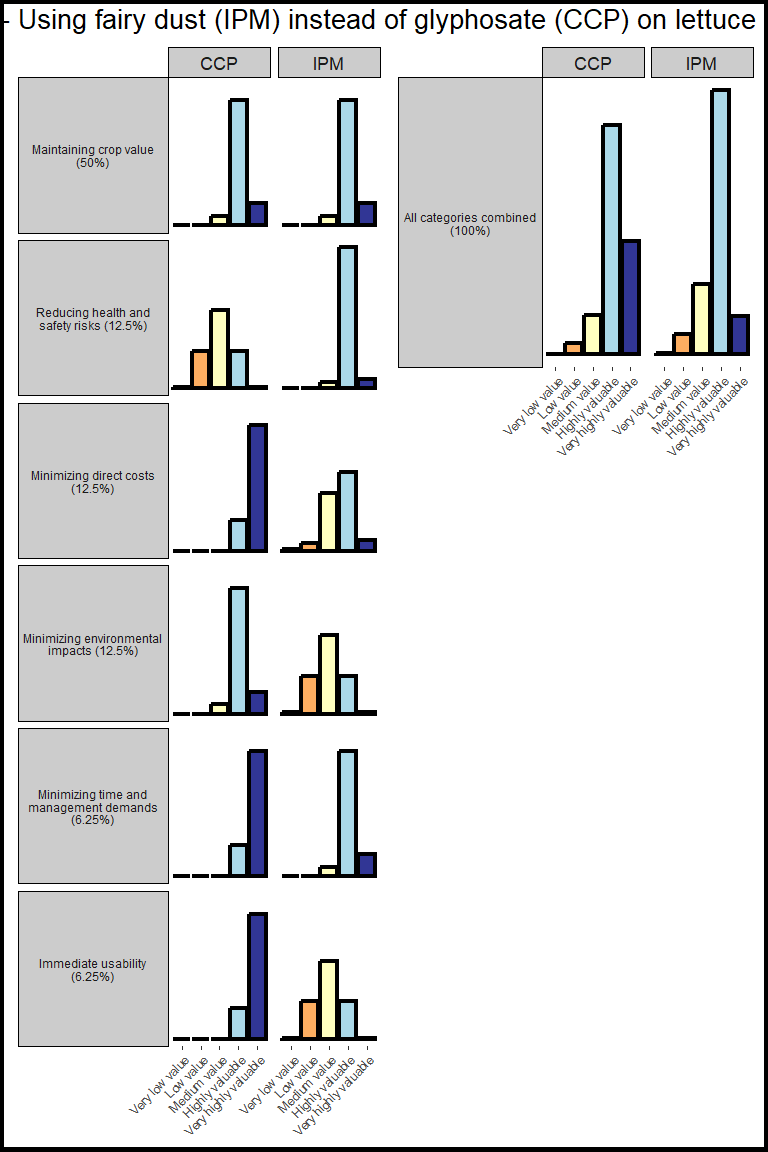
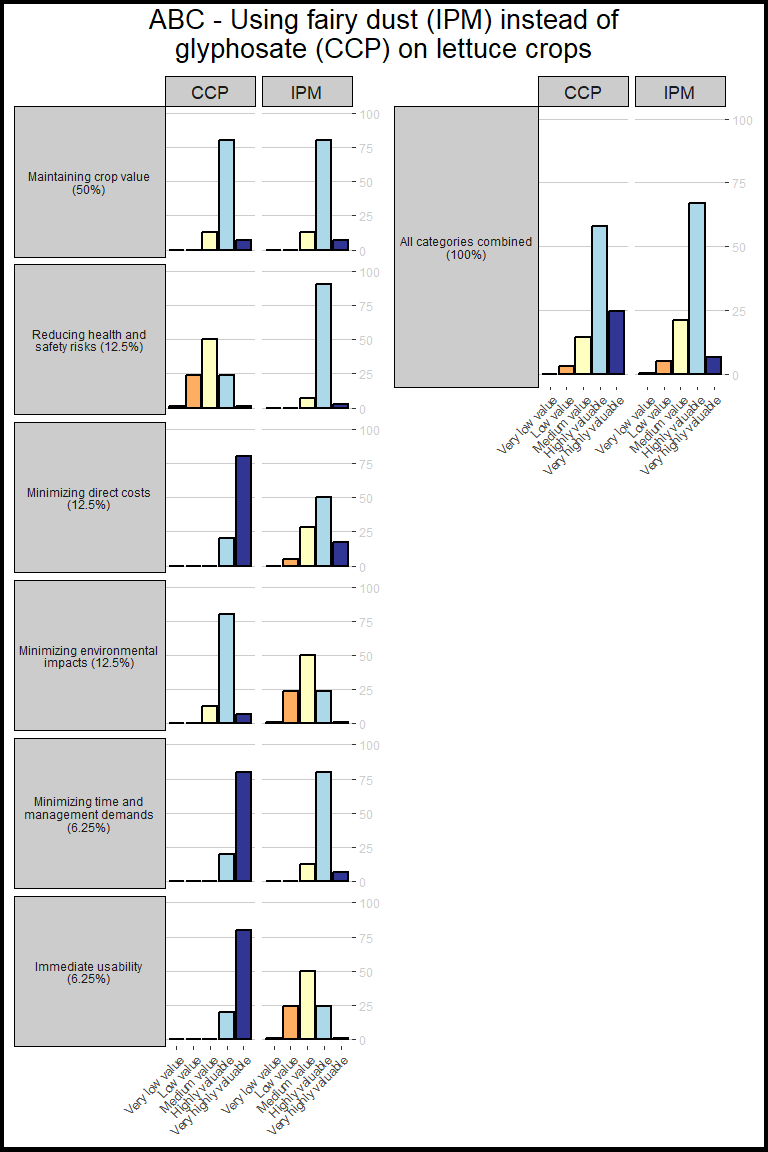
updated readme

Changed region(s): [[0.0, 0.0, 1.0, 1.0]]

diff --git a/README.md b/README.md
@@ -46,9 +46,9 @@ thus the clunky name, IPMOPAT.
 
 - take those ratings/confidence level pairs, and create value
   distributions for each of the six categories
-- combine the six categories into a summary value distribution, based on
-  the user
-- create visualizations that compare the value of the two scenarios
+- combine the six categories into a summary value distribution
+- create visualizations that compare the value of the two scenarios with
+  bar graphs
 
 ## Installation
 
@@ -62,78 +62,49 @@ pak::pak("vanichols/ipmopat")
 
 ## Example
 
-Look at example data template for comparing glyphosate and fairy dust in
-lettuce for weed control
+Look at example data. This example is comparing glyphosate and fairy
+dust in lettuce for weed control. This example data should be used as a
+template.
 
 ``` r
 library(ipmopat)
 
-ipm_exampdat %>% 
-  dplyr::select(short, weight, ccp_rating, ccp_confidence, ipm_rating, ipm_confidence)
-#> # A tibble: 6 × 6
-#>   short               weight ccp_rating ccp_confidence ipm_rating ipm_confidence
-#>   <chr>                <dbl> <chr>      <chr>          <chr>      <chr>         
-#> 1 crop value           50    low impact H              low impact H             
-#> 2 health and safety    12.5  medium im… M              low impact VH            
-#> 3 direct costs         12.5  very low … H              low impact M             
-#> 4 environment          12.5  low impact H              medium im… M             
-#> 5 time and management   6.25 very low … H              low impact H             
-#> 6 coordination requi…   6.25 very low … H              medium im… M
+ipm_exinput
+#> # A tibble: 6 × 7
+#>   title         weight short ccp_rating ccp_confidence ipm_rating ipm_confidence
+#>   <chr>          <dbl> <chr> <chr>      <chr>          <chr>      <chr>         
+#> 1 ABC - Using …  50    crop… low impact H              low impact H             
+#> 2 <NA>           12.5  heal… medium im… M              low impact VH            
+#> 3 <NA>           12.5  dire… very low … H              low impact M             
+#> 4 <NA>           12.5  envi… low impact H              medium im… M             
+#> 5 <NA>            6.25 time… very low … H              low impact H             
+#> 6 <NA>            6.25 coor… very low … H              medium im… M
 ```
 
-See more details about the categories, it will have some more detail
-added as we refine the questionaire…
+See more details about the impact categories, it will have some more
+detail added as we refine the questionaire…
 
 ``` r
-ipm_shortinfo
+ipm_impactcatsinfo
 #> # A tibble: 6 × 3
-#>   value_metric                           short                     question     
-#>   <chr>                                  <chr>                     <chr>        
-#> 1 Maintaining crop value                 crop value                Crop value l…
-#> 2 Reducing health and safety risks       health and safety         Worker (non-…
-#> 3 Minimizing direct costs                direct costs              The cost of …
-#> 4 Minimizing environmental impacts       environment               The potentia…
-#> 5 Minimizing time and management demands time and management       The time and…
-#> 6 Immediate usability                    coordination requirements The coordina…
+#>   short                     value_metric                           question     
+#>   <chr>                     <chr>                                  <chr>        
+#> 1 crop value                Maintaining crop value                 Crop value l…
+#> 2 health and safety         Reducing health and safety risks       Worker (non-…
+#> 3 direct costs              Minimizing direct costs                The cost of …
+#> 4 environment               Minimizing environmental impacts       The potentia…
+#> 5 time and management       Minimizing time and management demands The time and…
+#> 6 coordination requirements Immediate usability                    The coordina…
 ```
 
-Create distributions of ‘value’ for each pest management scenario within
-each of the six metrics:
+One monster function will intake your data, and pop out a bar graph
+visualization (color blind friendly, we believe). Here we use the
+example data as input.Thanks for reading.
 
 ``` r
-head(Ratings2Distributions())
-#> # A tibble: 6 × 8
-#>   title                  weight short rating confidence score value_bin scenario
-#>   <chr>                   <dbl> <chr> <chr>  <chr>      <dbl>     <dbl> <chr>   
-#> 1 ABC - Using fairy dus…   50   crop… low i… H             14         5 CCP     
-#> 2 ABC - Using fairy dus…   50   crop… low i… H             80         4 CCP     
-#> 3 ABC - Using fairy dus…   50   crop… low i… H              6         3 CCP     
-#> 4 ABC - Using fairy dus…   50   crop… low i… H              0         2 CCP     
-#> 5 ABC - Using fairy dus…   50   crop… low i… H              0         1 CCP     
-#> 6 ABC - Using fairy dus…   12.5 heal… mediu… M              1         5 CCP
-```
-
-Use the results from Ratings2Distributions, and combine the six metrics
-into one summary
-
-``` r
-head(CombineSixMetrics())
-#> # A tibble: 6 × 6
-#>   title                             scenario short value_metric value_bin  score
-#>   <chr>                             <chr>    <chr> <chr>            <dbl>  <dbl>
-#> 1 ABC - Using fairy dust (IPM) ins… CCP      all   All categor…         1  0.133
-#> 2 ABC - Using fairy dust (IPM) ins… CCP      all   All categor…         2  3.00 
-#> 3 ABC - Using fairy dust (IPM) ins… CCP      all   All categor…         3 10.0  
-#> 4 ABC - Using fairy dust (IPM) ins… CCP      all   All categor…         4 57.9  
-#> 5 ABC - Using fairy dust (IPM) ins… CCP      all   All categor…         5 28.9  
-#> 6 ABC - Using fairy dust (IPM) ins… IPM      all   All categor…         1  0.302
-```
-
-Finally, you can visualize the results in either a dot plot or a bar
-graph
-
-``` r
-VisualizeResultsBarFig()
+MonsterFxn(f_dat = ipm_exinput)
+#> Joining with `by = join_by(value_bin)`
+#> Joining with `by = join_by(value_bin)`
 #> Joining with `by = join_by(short)`
 ```
 
